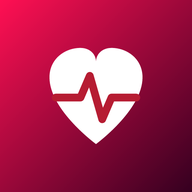
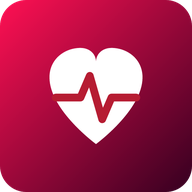
feat(ux): 7차 사용자 피드백 3건 반영 (아이콘 전 용도 라운드 통일·메시지 텍스트 박스 제거·파형 박스 폭 실제 캡 제거)
1. 아이콘: 용도 구분 없이 모두 둥근 모서리+투명 배경으로 통일 —
   maskable 2종(icon-{192,512}-maskable.png)을 any 라운드 파일과 동일하게
   교체, apple-touch-icon(180)도 풀블리드에서 라운드로 재생성.
   검증: 코너 투명·가장자리 불투명·하트 정중앙(편차≤1px)·그라데이션 ±10
2. 메시지 텍스트 자체 박스 제거: 최종 디자인 레이어의 배경(#EDF3FE)·
   테두리·box-shadow(희미한 음영) 및 이전 레이어의 박스 속성 4곳 전부
   제거 — 문구는 글자만 표시(흰 메시지 카드·결과 배너는 유지)
3. 파형 박스 폭: 6차 수정이 뒤늦은 중복 규칙(2123행 width:min(100%,440px)·
   max-width:440px)에 덮여 무효였던 것이 원인. 실제 적용 규칙을
   width:100%·max-width:none으로 교체하고 죽은 중복 규칙(1510행) 삭제,
   세로 플렉스 flex:0 0 auto는 이관. PC에서 링·메시지 영역과 동일 폭

diff --git a/src/main.css b/src/main.css
@@ -1301,9 +1301,6 @@ body.resizing-debug * {
 .stage-guide-text {
   width: 100%;
   min-height: 3em;
-  padding: 10px 14px;
-  border-radius: 14px;
-  background: #E8F0FB;
   font-size: 1.16rem;
   line-height: 1.35;
 }
@@ -1507,17 +1504,6 @@ body.resizing-debug * {
   text-wrap: pretty;
 }
 
-.waveform-box,
-body.has-result .waveform-box {
-  display: block;
-  width: 100%; /* 메시지 박스·링 영역과 같은 가로 폭(PC 넓은 화면에서 정렬) */
-  height: 76px;
-  padding: 6px;
-  background: #0F172A;
-  border: 1px solid #263449;
-  border-radius: 14px;
-  flex: 0 0 auto;
-}
 
 #waveformCanvas {
   width: 100%;
@@ -1863,20 +1849,12 @@ body.has-result .bpm-row {
   display: flex;
   align-items: center;
   justify-content: center;
-  border: 1px solid #93C5FD;
-  border-radius: 14px;
-  background: #E8F0FB;
   color: var(--primary);
   font-size: clamp(1.08rem, 4.6vw, 1.24rem);
   font-weight: 700;
   line-height: 1.4;
   text-align: center;
   overflow-wrap: anywhere;
-}
-
-body.is-measuring .stage-guide-text {
-  border-color: #60A5FA;
-  background: #EFF6FF;
 }
 
 .message-area > * {
@@ -2125,13 +2103,14 @@ body.has-result .waveform-box {
   display: flex;
   flex-direction: column;
   gap: 4px;
-  width: min(100%, 440px);
+  width: 100%; /* 링·메시지 영역과 같은 가로 폭 */
   height: 100%;
-  max-width: 440px;
+  max-width: none; /* 앞선 규칙들의 420/460px 캡 무효화 */
   padding: 0;
   border: 0;
   border-radius: 0;
   background: transparent;
+  flex: 0 0 auto; /* 세로 플렉스에서 줄어들지 않음 */
 }
 
 .waveform-title {
@@ -2754,12 +2733,9 @@ body.is-measuring .waveform-live-pill {
 }
 
 /* ── 메시지/결과 카드 ─────────────────────────────────────────────────── */
+/* 메시지 문구 자체에는 박스(배경·테두리·음영)를 두지 않는다(7차 피드백) */
 .stage-guide-text {
-  border-color: #C7D9F2;
-  border-radius: 20px;
-  background: #EDF3FE;
   color: #17436E;
-  box-shadow: 0 4px 16px rgba(18, 24, 41, 0.05);
 }
 
 .result-banner,

diff --git a/tests/e2e/hearttune.spec.js b/tests/e2e/hearttune.spec.js
@@ -56,7 +56,7 @@ test.describe('오늘심박 (HeartTune) E2E 통합 검증', () => {
     // 파비콘은 설치 아이콘과 같은 디자인: 좌상→우하 그라데이션 + 하트 .8078 정중앙(10% 추가 확대)
     expect(iconConfig.favicon).toContain('linearGradient');
     expect(iconConfig.favicon).toContain('translate(9.61 12.03) scale(.8078)');
-    // 매니페스트 아이콘: any 용도는 둥근 모서리+투명 배경(PC 설치), maskable 용도는 풀블리드
+    // 매니페스트 아이콘: 모든 용도(any·maskable)가 둥근 모서리+투명 배경의 동일한 디자인(7차 통일)
     expect(iconConfig.icons.map((icon) => icon.sizes)).toEqual(['192x192', '192x192', '512x512', '512x512']);
     expect(iconConfig.icons.map((icon) => icon.purpose)).toEqual(['any', 'maskable', 'any', 'maskable']);
     for (const icon of iconConfig.icons) {
